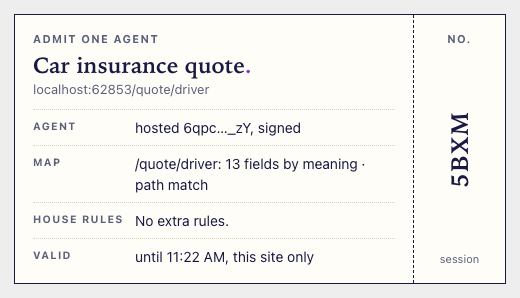
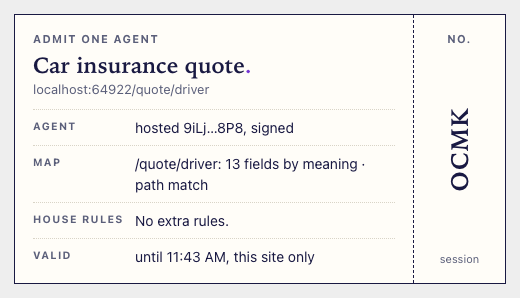
Card styles shared, scoped under .uc, for the widget and the front page

diff --git a/packages/mcp/src/apps.ts b/packages/mcp/src/apps.ts
@@ -12,6 +12,7 @@
 
 import { createHash } from 'node:crypto';
 import type { McpServer } from '@modelcontextprotocol/sdk/server/mcp.js';
+import { CARD_CSS, CARD_DARK, CARD_LIGHT } from '../../registry/src/web/cards.ts';
 
 export const CARD_URI = 'ui://usher/card.html';
 export const CARD_MIME = 'text/html;profile=mcp-app';
@@ -48,59 +49,18 @@ const CARD_HTML = `<!doctype html>
 <meta name="viewport" content="width=device-width, initial-scale=1">
 <title>Usher</title>
 <style>
-:root { --bg:#fbf9f4; --card:#fffdf8; --ink:#191942; --muted:#5b5f7a; --line:#d9d4c7; --rule:#191942; --accent:#7434d3;
-  --cons:#8a5a00; --cons-bg:#f8edd2; --user:#a1251b; --user-bg:#f7e2de; --safe:#0f7a3d; --safe-bg:#e3f1e6;
-  --serif:"Iowan Old Style","Charter","Palatino Linotype",Palatino,Georgia,serif; color-scheme:light dark; }
-@media (prefers-color-scheme: dark) { :root { --bg:#12132c; --card:#1b1d3d; --ink:#f1ede3; --muted:#b0afc4; --line:#34365a; --rule:#f1ede3; --accent:#c5a3ff;
-  --cons:#f0c05a; --cons-bg:#3a2f14; --user:#f19389; --user-bg:#3b1d1a; --safe:#6fd39a; --safe-bg:#173325; } }
-:root[data-theme="light"] { --bg:#fbf9f4; --card:#fffdf8; --ink:#191942; --muted:#5b5f7a; --line:#d9d4c7; --rule:#191942; --accent:#7434d3; --cons:#8a5a00; --cons-bg:#f8edd2; --user:#a1251b; --user-bg:#f7e2de; --safe:#0f7a3d; --safe-bg:#e3f1e6; }
-:root[data-theme="dark"] { --bg:#12132c; --card:#1b1d3d; --ink:#f1ede3; --muted:#b0afc4; --line:#34365a; --rule:#f1ede3; --accent:#c5a3ff; --cons:#f0c05a; --cons-bg:#3a2f14; --user:#f19389; --user-bg:#3b1d1a; --safe:#6fd39a; --safe-bg:#173325; }
+:root { ${CARD_LIGHT} --serif:"Iowan Old Style","Charter","Palatino Linotype",Palatino,Georgia,serif; color-scheme:light dark; }
+@media (prefers-color-scheme: dark) { :root { ${CARD_DARK} } }
+:root[data-theme="light"] { ${CARD_LIGHT} }
+:root[data-theme="dark"] { ${CARD_DARK} }
 * { box-sizing:border-box; }
 html, body { margin:0; background:transparent; color:var(--ink); font:15px/1.5 system-ui,-apple-system,"Segoe UI",Roboto,sans-serif; -webkit-font-smoothing:antialiased; }
 main { padding:14px; max-width:560px; }
-.card { background:var(--card); border:1.5px solid var(--rule); padding:16px 18px; }
-.label { font-size:11px; font-weight:700; letter-spacing:.12em; text-transform:uppercase; color:var(--muted); margin:0; }
-h1 { font-family:var(--serif); font-size:22px; line-height:1.2; margin:4px 0 2px; }
-h1::after { content:"."; color:var(--accent); }
-.where { color:var(--muted); font-size:13px; margin:0 0 10px; word-break:break-all; }
-.asking { display:inline-block; font-size:12.5px; font-weight:600; background:var(--cons-bg); color:var(--cons); padding:2px 10px; border-radius:999px; margin:0 0 12px; }
-.row { border-top:1px dotted var(--line); padding:10px 0; }
-.row:first-of-type { border-top:0; }
-label.check { display:flex; gap:10px; align-items:flex-start; cursor:pointer; }
-label.check input { margin-top:3px; width:18px; height:18px; accent-color:var(--accent); flex:none; }
-.verbatim { white-space:pre-wrap; }
-.terms { margin:8px 0 0 28px; font-size:13px; color:var(--muted); border-left:2px solid var(--line); padding-left:10px; max-height:140px; overflow:auto; white-space:pre-wrap; }
-.terms a, a { color:var(--ink); text-decoration-color:var(--accent); text-underline-offset:3px; }
-.tag { font-size:11px; font-weight:700; letter-spacing:.06em; text-transform:uppercase; border-radius:999px; padding:1px 8px; margin-left:6px; white-space:nowrap; }
-.req { background:var(--user-bg); color:var(--user); } .opt { background:var(--safe-bg); color:var(--safe); }
-.yesno { display:flex; gap:14px; margin:8px 0 0 28px; font-size:14px; }
-.yesno label { display:flex; gap:6px; align-items:center; cursor:pointer; }
-.disclosure { margin:6px 0 0 28px; font-size:13px; color:var(--muted); white-space:pre-wrap; }
-input[type=text] { width:100%; font:inherit; color:var(--ink); background:var(--bg); border:1.5px solid var(--line); padding:7px 9px; margin-top:6px; }
-button { font:inherit; font-weight:600; background:var(--rule); color:var(--card); border:0; padding:10px 18px; cursor:pointer; margin-top:12px; }
-button:disabled { opacity:.5; cursor:default; }
-.note { font-size:12.5px; color:var(--muted); margin:8px 0 0; }
-.warn { color:var(--user); }
-.ticket { display:grid; grid-template-columns:minmax(0,1fr) 92px; padding:0; }
-.ticket-main { padding:16px 18px; }
-.ticket dl { margin:10px 0 0; display:grid; gap:7px; }
-.ticket dl div { display:grid; grid-template-columns:92px 1fr; gap:10px; border-top:1px dotted var(--line); padding-top:7px; }
-.ticket dt { font-size:10.5px; font-weight:700; letter-spacing:.12em; text-transform:uppercase; color:var(--muted); padding-top:2px; }
-.ticket dd { margin:0; font-size:14px; }
-.stub { border-left:1.5px dashed var(--rule); padding:16px 8px; display:flex; flex-direction:column; align-items:center; justify-content:space-between; text-align:center; gap:6px; }
-.stub b { font-family:var(--serif); font-size:24px; writing-mode:vertical-rl; transform:rotate(180deg); letter-spacing:.06em; }
-.stub span:last-child { font-size:11px; color:var(--muted); }
-.facts { list-style:none; margin:10px 0 0; padding:0; }
-.facts li { border-top:1px dotted var(--line); padding:7px 0; font-size:15px; }
-.facts li:first-child { border-top:0; font-family:var(--serif); font-size:22px; font-weight:700; }
-.thumb { display:block; width:100%; max-height:180px; object-fit:cover; object-position:top; border:1px solid var(--line); margin-top:10px; }
-.outcome { font-weight:700; }
-.outcome.ok { color:var(--safe); } .outcome.no { color:var(--user); }
-@media (max-width:420px) { .ticket { grid-template-columns:1fr; } .stub { border-left:0; border-top:1.5px dashed var(--rule); flex-direction:row; padding:10px 18px; } .stub b { writing-mode:horizontal-tb; transform:none; } .ticket dl div { grid-template-columns:1fr; gap:1px; } }
+${CARD_CSS}
 </style>
 </head>
 <body>
-<main id="root"><p class="note">Waiting for Usher…</p></main>
+<main id="root" class="uc"><p class="note">Waiting for Usher…</p></main>
 <script>
 (function () {
   var nextId = 1, waiting = {}, root = document.getElementById('root');
@@ -144,7 +104,7 @@ button:disabled { opacity:.5; cursor:default; }
   function decisionCard(d) {
     var blocks = d.blocks || [], page = '', first = blocks.filter(function (b) { return b.source && b.source.url; })[0];
     if (first) page = where(first.source.url);
-    var html = '<div class="card"><p class="label">Your decision</p><h1>Before Usher goes on</h1>'
+    var html = '<div class="card"><p class="label">Your decision</p><h1 class="title">Before Usher goes on</h1>'
       + (page ? '<p class="where">' + esc(page) + '</p>' : '')
       + '<p class="asking">Usher is asking you, not the agent</p><div id="f">';
     (d.decisions || []).forEach(function (q, i) {
@@ -204,7 +164,7 @@ button:disabled { opacity:.5; cursor:default; }
     var until = k.expires_at ? new Date(k.expires_at) : null;
     var house = (confirm.length ? 'Ask the person before ' + confirm.join(', ') + '. ' : '') + (forbid.length ? forbid.join(', ') + ' are the person\\'s alone.' : '') || 'No extra rules.';
     var purpose = (map.form && map.form.purpose) || 'A form';
-    root.innerHTML = '<div class="card ticket"><div class="ticket-main"><p class="label">Admit one agent</p><h1>' + esc(purpose.replace(/:.*$/, '')) + '</h1>'
+    root.innerHTML = '<div class="card ticket"><div class="ticket-main"><p class="label">Admit one agent</p><h1 class="title">' + esc(purpose.replace(/:.*$/, '')) + '</h1>'
       + '<p class="where">' + esc(where((map.path && claims.origin) ? claims.origin + map.path : '')) + '</p><dl>'
       + '<div><dt>Agent</dt><dd>' + esc(agent) + '</dd></div>'
       + '<div><dt>Map</dt><dd>' + (map.path ? esc(map.path) + ': ' + fields + ' fields by meaning' + (k.match ? ' · ' + esc(k.match.kind) + ' match' : '') : 'No map for this page yet') + '</dd></div>'
@@ -218,7 +178,7 @@ button:disabled { opacity:.5; cursor:default; }
     var res = r.result || {}, ok = r.status === 'completed';
     var facts = res.facts || [];
     var url = res.final_url || r.final_url || '';
-    root.innerHTML = '<div class="card"><p class="label">Usher</p><h1>' + esc(res.title || (ok ? 'Done' : 'Stopped')) + '</h1>'
+    root.innerHTML = '<div class="card"><p class="label">Usher</p><h1 class="title">' + esc(res.title || (ok ? 'Done' : 'Stopped')) + '</h1>'
       + (url ? '<p class="where">' + esc(where(url)) + '</p>' : '')
       + '<p class="outcome ' + (ok ? 'ok' : 'no') + '">' + (ok ? 'Completed' : esc(r.status)) + (r.reason ? ': ' + esc(r.reason) : '') + '</p>'
       + (facts.length ? '<ul class="facts">' + facts.map(function (f) { return '<li class="verbatim">' + esc(f) + '</li>'; }).join('') + '</ul>' : '')

diff --git a/packages/registry/src/web/cards.ts b/packages/registry/src/web/cards.ts
@@ -1,0 +1,49 @@
+// The look of Usher's cards: the MCP Apps widget (packages/mcp/src/apps.ts) and the front page's
+// illustration of it use the same rules, scoped under .uc, so what the page shows is what a client
+// renders. Colours come from the usual custom properties (--card, --ink, --accent, …).
+
+/** The palette, light and dark, as custom property declarations. */
+export const CARD_LIGHT = '--bg:#fbf9f4; --card:#fffdf8; --ink:#191942; --muted:#5b5f7a; --line:#d9d4c7; --rule:#191942; --accent:#7434d3; --cons:#8a5a00; --cons-bg:#f8edd2; --user:#a1251b; --user-bg:#f7e2de; --safe:#0f7a3d; --safe-bg:#e3f1e6;';
+export const CARD_DARK = '--bg:#12132c; --card:#1b1d3d; --ink:#f1ede3; --muted:#b0afc4; --line:#34365a; --rule:#f1ede3; --accent:#c5a3ff; --cons:#f0c05a; --cons-bg:#3a2f14; --user:#f19389; --user-bg:#3b1d1a; --safe:#6fd39a; --safe-bg:#173325;';
+
+export const CARD_CSS = `
+.uc .card { background:var(--card); border:1.5px solid var(--rule); border-radius:0; padding:16px 18px; margin:0; color:var(--ink); }
+.uc .label { font-size:11px; font-weight:700; letter-spacing:.12em; text-transform:uppercase; color:var(--muted); margin:0; }
+.uc .title { font-family:var(--serif); font-size:22px; line-height:1.2; margin:4px 0 2px; }
+.uc .title::after { content:"."; color:var(--accent); }
+.uc .where { color:var(--muted); font-size:13px; margin:0 0 10px; word-break:break-all; }
+.uc .asking { display:inline-block; font-size:12.5px; font-weight:600; background:var(--cons-bg); color:var(--cons); padding:2px 10px; border-radius:999px; margin:0 0 12px; }
+.uc .row { border-top:1px dotted var(--line); padding:10px 0; }
+.uc .row:first-of-type { border-top:0; }
+.uc label.check { display:flex; gap:10px; align-items:flex-start; cursor:pointer; }
+.uc label.check input { margin-top:3px; width:18px; height:18px; accent-color:var(--accent); flex:none; }
+.uc .verbatim { white-space:pre-wrap; }
+.uc .terms { margin:8px 0 0 28px; font-size:13px; color:var(--muted); border-left:2px solid var(--line); padding-left:10px; max-height:140px; overflow:auto; white-space:pre-wrap; }
+.uc .terms a, .uc a { color:var(--ink); text-decoration-color:var(--accent); text-underline-offset:3px; }
+.uc .tag { font-size:11px; font-weight:700; letter-spacing:.06em; text-transform:uppercase; border-radius:999px; padding:1px 8px; margin-left:6px; white-space:nowrap; }
+.uc .req { background:var(--user-bg); color:var(--user); }.uc .opt { background:var(--safe-bg); color:var(--safe); }
+.uc .yesno { display:flex; gap:14px; margin:8px 0 0 28px; font-size:14px; }
+.uc .yesno label { display:flex; gap:6px; align-items:center; cursor:pointer; }
+.uc .disclosure { margin:6px 0 0 28px; font-size:13px; color:var(--muted); white-space:pre-wrap; }
+.uc input[type=text] { width:100%; font:inherit; color:var(--ink); background:var(--bg); border:1.5px solid var(--line); padding:7px 9px; margin-top:6px; }
+.uc button { font:inherit; font-weight:600; background:var(--rule); color:var(--card); border:0; padding:10px 18px; cursor:pointer; margin-top:12px; }
+.uc button:disabled { opacity:.5; cursor:default; }
+.uc .note { font-size:12.5px; color:var(--muted); margin:8px 0 0; }
+.uc .warn { color:var(--user); }
+.uc .ticket { display:grid; grid-template-columns:minmax(0,1fr) 92px; padding:0; }
+.uc .ticket-main { padding:16px 18px; }
+.uc .ticket dl { margin:10px 0 0; display:grid; gap:7px; }
+.uc .ticket dl div { display:grid; grid-template-columns:92px 1fr; gap:10px; border-top:1px dotted var(--line); padding-top:7px; }
+.uc .ticket dt { font-size:10.5px; font-weight:700; letter-spacing:.12em; text-transform:uppercase; color:var(--muted); padding-top:2px; }
+.uc .ticket dd { margin:0; font-size:14px; }
+.uc .stub { border-left:1.5px dashed var(--rule); padding:16px 8px; display:flex; flex-direction:column; align-items:center; justify-content:space-between; text-align:center; gap:6px; }
+.uc .stub b { font-family:var(--serif); font-size:24px; writing-mode:vertical-rl; transform:rotate(180deg); letter-spacing:.06em; }
+.uc .stub span:last-child { font-size:11px; color:var(--muted); }
+.uc .facts { list-style:none; margin:10px 0 0; padding:0; }
+.uc .facts li { border-top:1px dotted var(--line); padding:7px 0; font-size:15px; }
+.uc .facts li:first-child { border-top:0; font-family:var(--serif); font-size:22px; font-weight:700; }
+.uc .thumb { display:block; width:100%; max-height:180px; object-fit:cover; object-position:top; border:1px solid var(--line); margin-top:10px; }
+.uc .outcome { font-weight:700; }
+.uc .outcome.ok { color:var(--safe); }.uc .outcome.no { color:var(--user); }
+@media (max-width:420px) { .uc .ticket { grid-template-columns:1fr; }.uc .stub { border-left:0; border-top:1.5px dashed var(--rule); flex-direction:row; padding:10px 18px; }.uc .stub b { writing-mode:horizontal-tb; transform:none; }.uc .ticket dl div { grid-template-columns:1fr; gap:1px; } }
+`;
